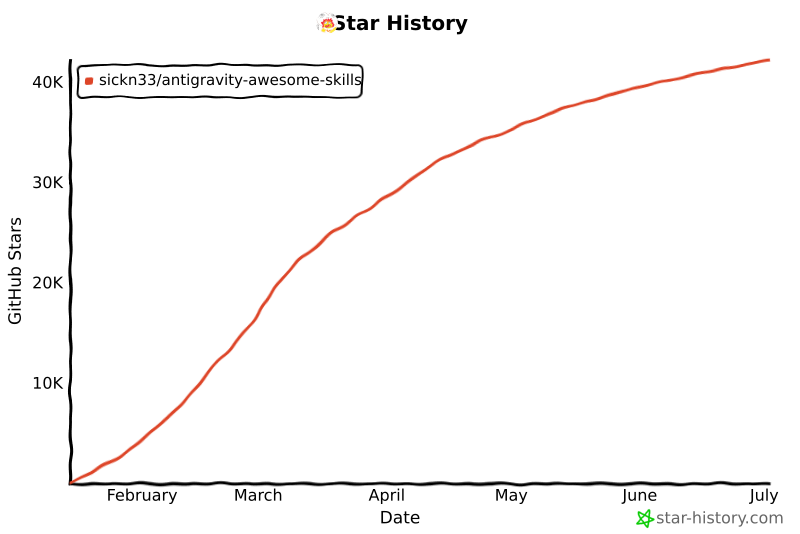
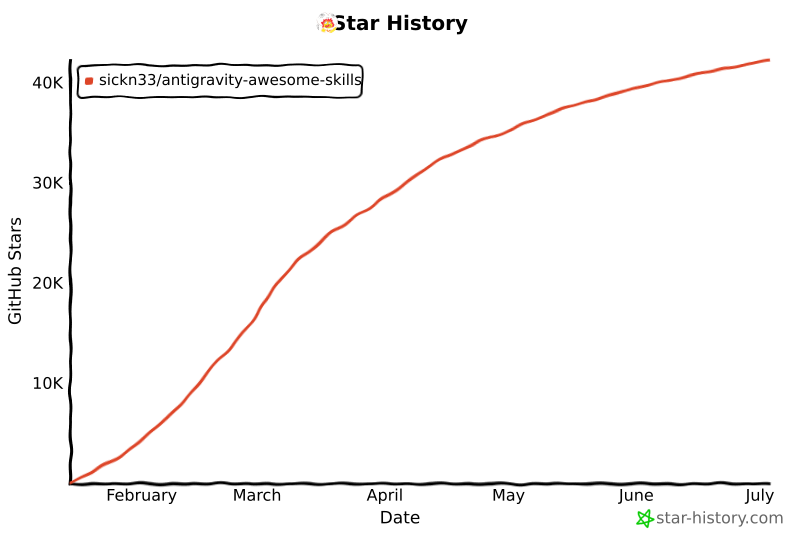
chore: update star history chart

diff --git a/README.md b/README.md
@@ -543,14 +543,14 @@ We officially thank the following contributors for their help in making this rep
 ## Star History
 
 <a href="https://www.star-history.com/#sickn33/antigravity-awesome-skills&type=date&legend=top-left">
- <img alt="Star History Chart" src="https://api.star-history.com/svg?repos=sickn33/antigravity-awesome-skills&type=date&legend=top-left&cache_bust=202607030707" />
+ <img alt="Star History Chart" src="https://api.star-history.com/svg?repos=sickn33/antigravity-awesome-skills&type=date&legend=top-left&cache_bust=202607040701" />
 </a>
 
 <a href="https://www.star-history.com/sickn33/antigravity-awesome-skills">
  <picture>
-   <source media="(prefers-color-scheme: dark)" srcset="https://api.star-history.com/chart?repos=sickn33/antigravity-awesome-skills&style=landscape1&theme=dark&cache_bust=202607030707" />
-   <source media="(prefers-color-scheme: light)" srcset="https://api.star-history.com/chart?repos=sickn33/antigravity-awesome-skills&style=landscape1&cache_bust=202607030707" />
-   <img alt="Star History Chart" src="https://api.star-history.com/chart?repos=sickn33/antigravity-awesome-skills&style=landscape1&cache_bust=202607030707" />
+   <source media="(prefers-color-scheme: dark)" srcset="https://api.star-history.com/chart?repos=sickn33/antigravity-awesome-skills&style=landscape1&theme=dark&cache_bust=202607040701" />
+   <source media="(prefers-color-scheme: light)" srcset="https://api.star-history.com/chart?repos=sickn33/antigravity-awesome-skills&style=landscape1&cache_bust=202607040701" />
+   <img alt="Star History Chart" src="https://api.star-history.com/chart?repos=sickn33/antigravity-awesome-skills&style=landscape1&cache_bust=202607040701" />
  </picture>
 </a>
 
